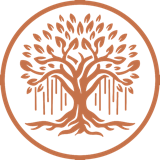
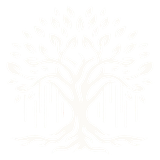
Website: one white tree everywhere, and Samadhi Score instead of J Score (LV5-084)
Two rulings from the 5:45 team call, Sat 14 Nov 2026 (Kush's picks):
1. "The website keeps the one white tree on a transparent background on
   every page."
   - Top bar and footer logo (.brand-mark): filled #fff instead of the theme
     ink, and no longer tints gold on hover (the small grow on hover stays).
   - Home page tree (centre of the turning wheel, and beside Questions): the
     gold /landing/junoon-tree.png becomes /brand/junoon-tree-white-560.webp.
     CSS fixes both boxes at a square size, so layout is unchanged.
   - /tour header: the clay badge (/logo-clay-text-96.png) becomes the white
     tree; the "Junoon Wellness" words beside it stay as they were.
   - /tour app demo (public/tour-embed/assets/junoon-mark.png): the clay tree
     in a ring is replaced, same file name and 160x160 size, by the white tree.
2. "It never says J Score. It says Samadhi Score, the turning wheel too."
   - Wheel centre ("your J Score"), its aria-label, the score section's
     eyebrow and two body lines, the Day 14 line and one image alt text.

Left on purpose: code names (JSCORE, jscore.jpg, CSS comments); the jscore.jpg
app screenshot, whose pixels still read "Your J Score Unlocks on Day 14";
unused NavV2/IndiaMiniature; og-image.png and browser icons.

diff --git a/lib/landing-copy.ts b/lib/landing-copy.ts
@@ -91,7 +91,7 @@ export const HERO_THREAD = [
   { practice: 'Dhyana', gloss: 'stillness', feature: 3, src: '/landing/sit.jpg', alt: 'The Sit and do nothing timer' },
   { practice: 'Abhyasa', gloss: 'steady practice', feature: 4, src: '/landing/library-appstore.jpg', alt: 'The class library' },
   { practice: 'Svadhyaya', gloss: 'self-study', feature: 5, src: '/landing/coach-voices.jpg', alt: 'The evening reflection with the coach' },
-  { practice: "Patanjali's 8 limbs", gloss: 'the whole path', feature: 7, src: '/landing/jscore.jpg', alt: 'The J Score screen, built on the eight limbs' },
+  { practice: "Patanjali's 8 limbs", gloss: 'the whole path', feature: 7, src: '/landing/jscore.jpg', alt: 'The Samadhi Score screen, built on the eight limbs' },
 ] as const
 
 /**
@@ -121,7 +121,7 @@ export const TWO_WEEKS = {
     {
       label: 'Day 14',
       title: 'Learning phase completion',
-      body: "A look back, and view your J score baseline, which measures your progress towards Patanjali's 8 limbs of yoga.",
+      body: "A look back, and view your Samadhi Score baseline, which measures your progress towards Patanjali's 8 limbs of yoga.",
     },
   ],
 }
@@ -191,13 +191,13 @@ export const LIMBS = {
 /* ── Section 5: your J Score ─────────────────────────────────────────────── */
 
 export const JSCORE = {
-  eyebrow: 'Your J Score',
+  eyebrow: 'Your Samadhi Score',
   heading: 'Watch your practice grow.',
-  body: "Your J Score reflects how consistently you're incorporating the first seven limbs of yoga into your practice, guiding you toward the eighth: Samadhi, the ultimate state of meditative absorption and inner awareness.",
+  body: "Your Samadhi Score reflects how consistently you're incorporating the first seven limbs of yoga into your practice, guiding you toward the eighth: Samadhi, the ultimate state of meditative absorption and inner awareness.",
   points: [
     {
       title:
-        'Your J Score tracks how consistently you practice the first seven limbs of yoga, helping you identify areas for growth as you progress toward the eighth: Samadhi.',
+        'Your Samadhi Score tracks how consistently you practice the first seven limbs of yoga, helping you identify areas for growth as you progress toward the eighth: Samadhi.',
       body: '',
     },
     { title: 'Measured against your own start', body: 'Never against other people.' },

diff --git a/app/theme.css b/app/theme.css
@@ -141,24 +141,21 @@ html[data-scrolled] .jh .nav {
   justify-self: start;
   letter-spacing: 0.01em;
 }
-/* The logo: the banyan alone on a transparent ground, in the theme's ink
-   (Kush, 6:54 PM Fri 13 Nov). A mask, so one picture serves both themes. */
+/* The logo: the banyan alone on a transparent ground (Kush, 6:54 PM Fri 13 Nov).
+   White, always, hover included: "the one white tree on a transparent
+   background on every page" (Kush, 5:45 call Sat 14 Nov, LV5-084). */
 .brand-mark {
   display: block;
   flex: none;
   width: 38px;
   height: 38px;
-  background-color: var(--s-ink);
+  background-color: #fff;
   -webkit-mask: url('/brand/junoon-tree-white-560.webp') center / contain no-repeat;
   mask: url('/brand/junoon-tree-white-560.webp') center / contain no-repeat;
-  transition: transform 0.5s var(--s-ease), background-color 0.3s;
+  transition: transform 0.5s var(--s-ease);
 }
 .jh .brand:hover .brand-mark {
   transform: scale(1.06);
-  background-color: var(--s-glow);
-}
-html[data-theme='light'] .jh .brand:hover .brand-mark {
-  background-color: var(--s-accent);
 }
 .jh .k-fl .brand-mark {
   width: 34px;

diff --git a/components/home/HomeLanding.tsx b/components/home/HomeLanding.tsx
@@ -79,11 +79,11 @@ function Tree({ className, size }: { className?: string; size: number }) {
   return (
     <Image
       className={className}
-      src="/landing/junoon-tree.png"
+      src="/brand/junoon-tree-white-560.webp"
       alt=""
       aria-hidden="true"
-      width={506}
-      height={520}
+      width={560}
+      height={560}
       sizes={`${size}px`}
     />
   )
@@ -124,7 +124,7 @@ function LimbsRing() {
       data-variant={RING_VARIANT}
       data-spin={RING_SPIN || undefined}
       role="img"
-      aria-label="The eight limbs of yoga in a ring, with Samadhi, your J Score, in the middle"
+      aria-label="The eight limbs of yoga in a ring, with Samadhi, your Samadhi Score, in the middle"
     >
       <div className="halo" />
       <div className="orb">
@@ -150,7 +150,7 @@ function LimbsRing() {
         <small>
           the number in the middle:
           <br />
-          your J Score
+          your Samadhi Score
         </small>
       </div>
     </InView>

diff --git a/app/tour/page.tsx b/app/tour/page.tsx
@@ -42,11 +42,11 @@ export default function TourPage() {
           }}
         >
           <Image
-            src="/logo-clay-text-96.png"
+            src="/brand/junoon-tree-white-560.webp"
             alt=""
             aria-hidden="true"
-            width={96}
-            height={96}
+            width={560}
+            height={560}
             sizes="28px"
             style={{ height: '28px', width: '28px' }}
             loading="eager"
